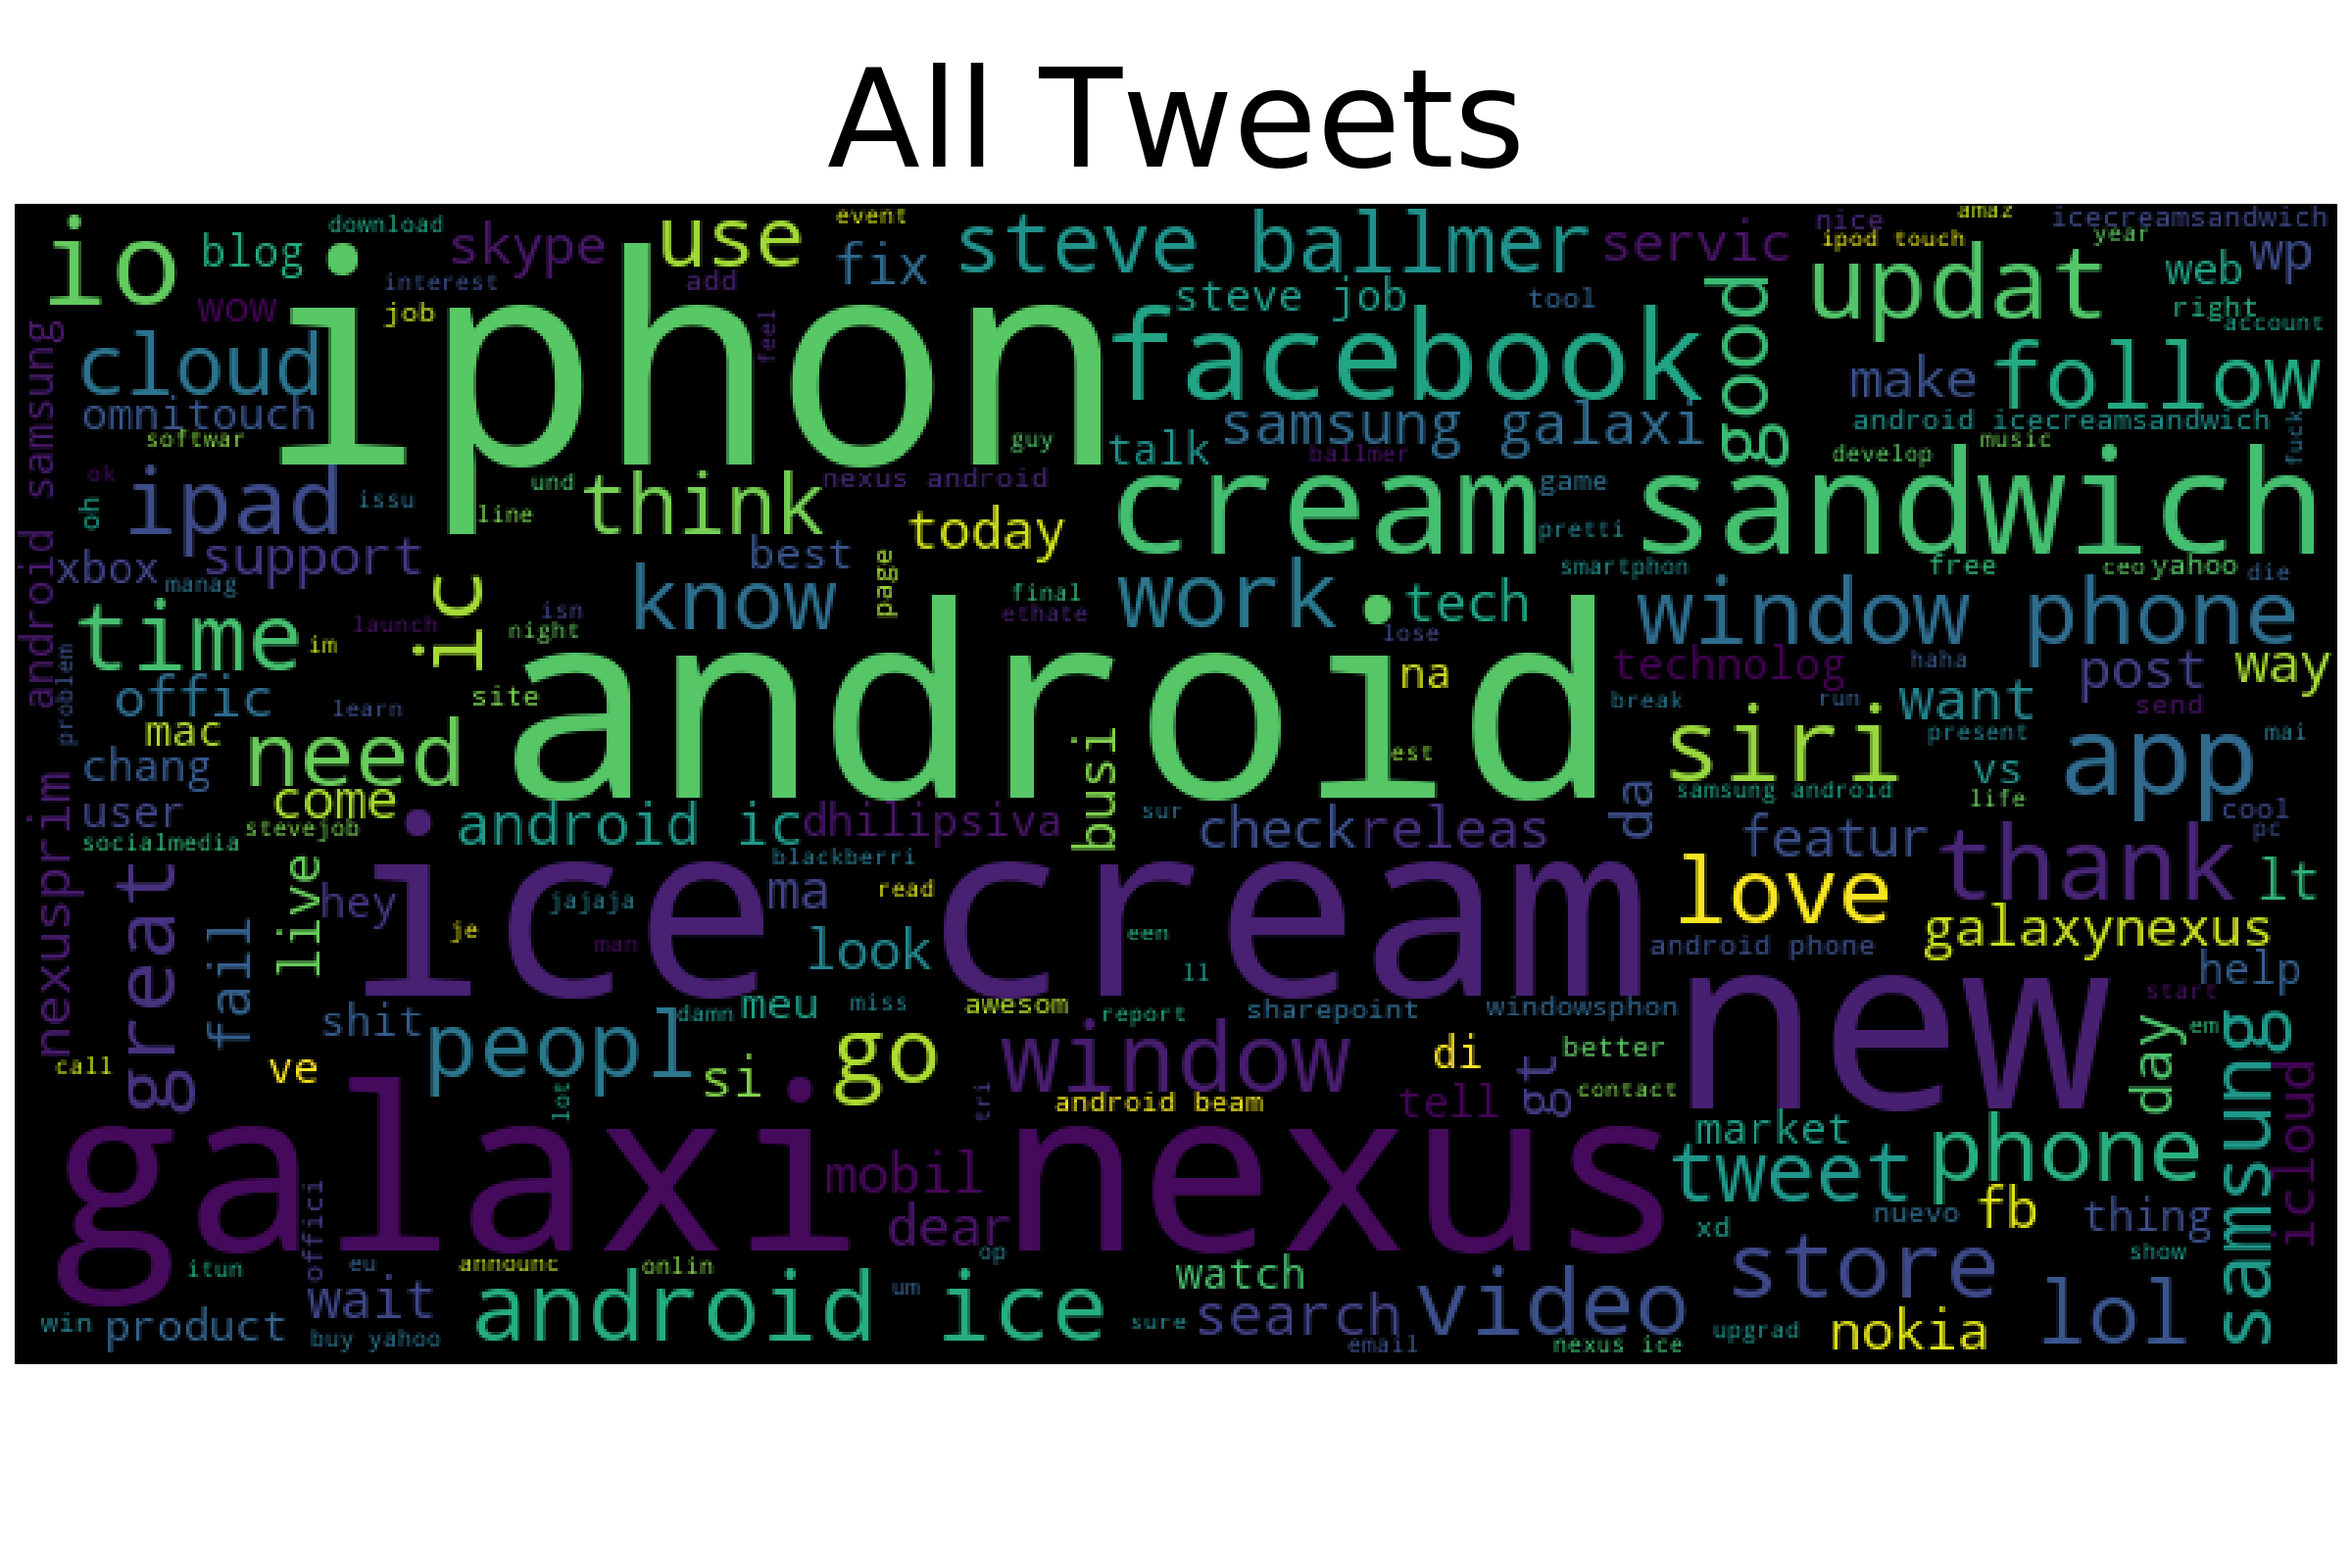
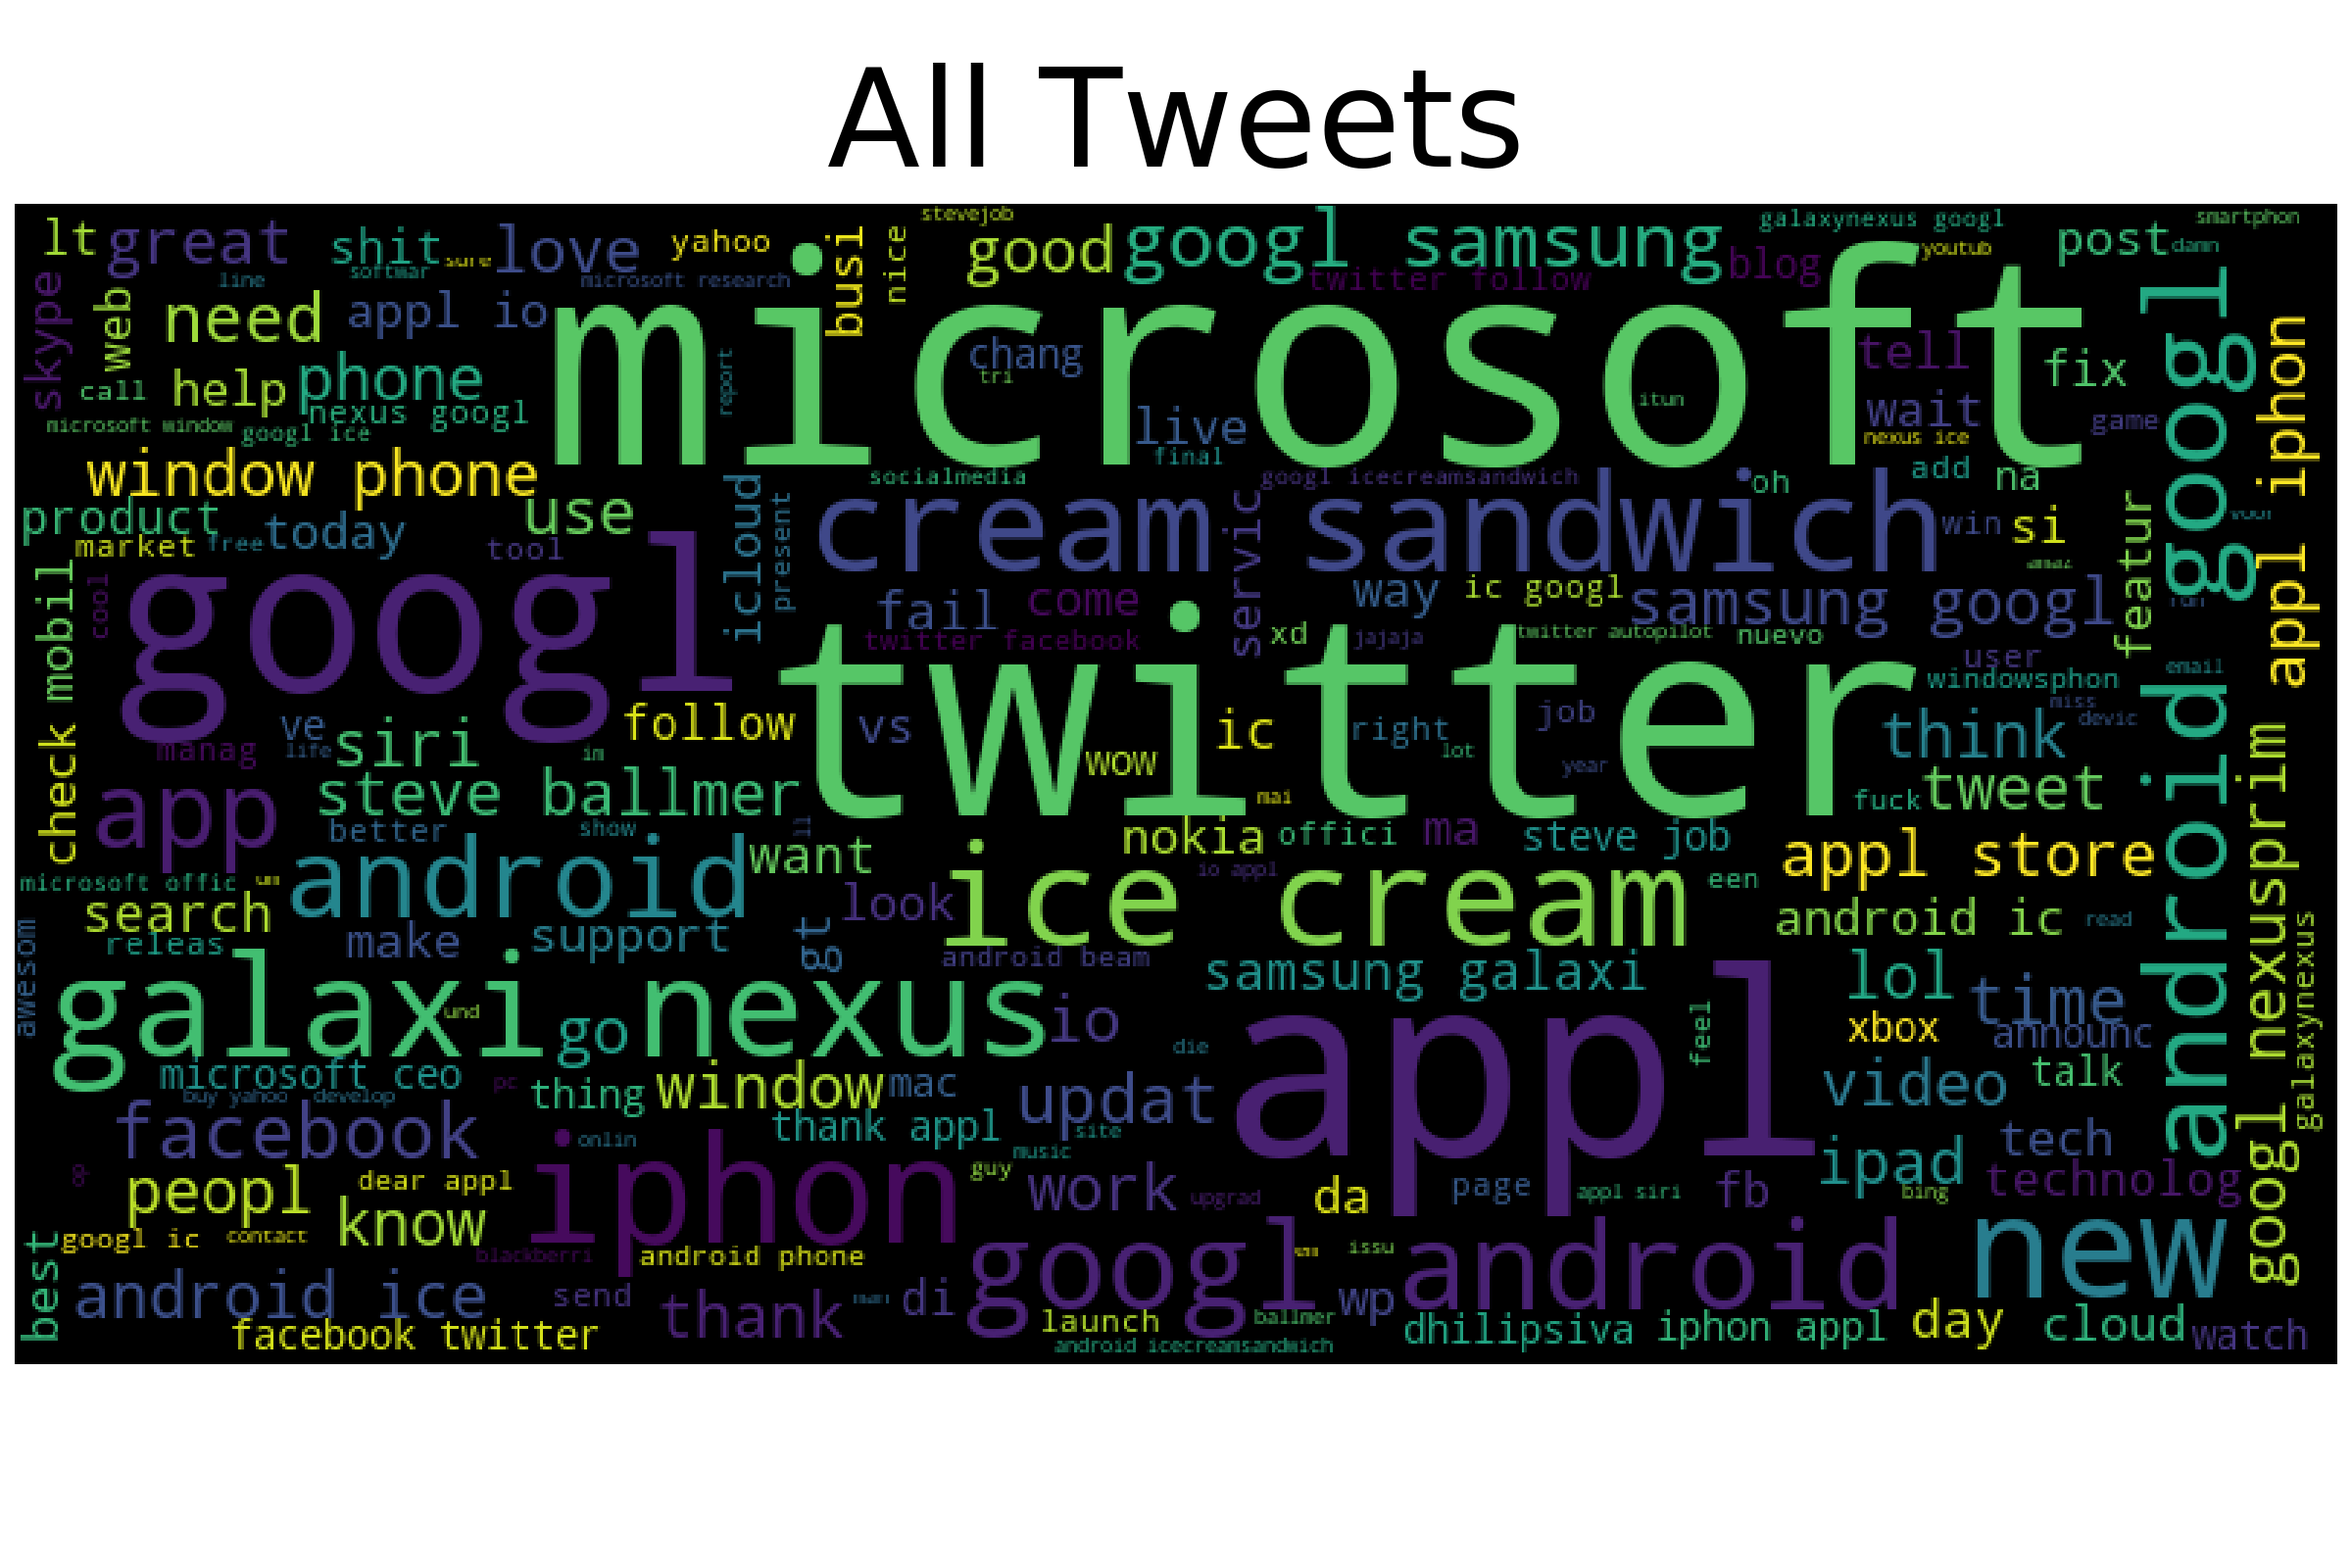
Changing plots so whole corpus doesn't remove 'common' stop words

diff --git a/src/runner.py b/src/runner.py
@@ -214,7 +214,7 @@ class Runner(object):
 
 
         # Remove stop words and perform lemmatization to create Pandas Series
-        processed_docs = twitter['TweetText'].apply(lambda x: dfc.preprocess(x, remove_common=True))
+        processed_docs = twitter['TweetText'].apply(lambda x: dfc.preprocess(x, remove_common=False))
         processed_pos = pos_df['TweetText'].apply(lambda x: dfc.preprocess(x, remove_common=True))
         processed_neg = neg_df['TweetText'].apply(lambda x: dfc.preprocess(x, remove_common=True))
         processed_neutral = neutral_df['TweetText'].apply(lambda x: dfc.preprocess(x, remove_common=True))

diff --git a/src/main.py b/src/main.py
@@ -11,12 +11,12 @@ if __name__ == '__main__':
     runner = Runner()
 
     '''TF-IDF'''
-    runner.run_naive_bayes_sentiment()
-    runner.run_naive_bayes_topic()
+    # runner.run_naive_bayes_sentiment()
+    # runner.run_naive_bayes_topic()
 
     '''Doc2Vec'''
-    runner.run_doc2vec_logreg()
-    runner.run_doc2vec_naivebayes()
+    # runner.run_doc2vec_logreg()
+    # runner.run_doc2vec_naivebayes()
 
     '''EDA Plots of Data'''
     runner.make_plots()

diff --git a/app/app.py b/app/app.py
@@ -28,7 +28,7 @@ with open('../models/count_vect_sent.pkl', 'rb') as f:
 
 @app.route('/', methods=['GET'])
 def root():
-    return render_template('index.html')
+    return render_template('home.html')
 
 
 @app.route('/predict', methods=['POST'])
